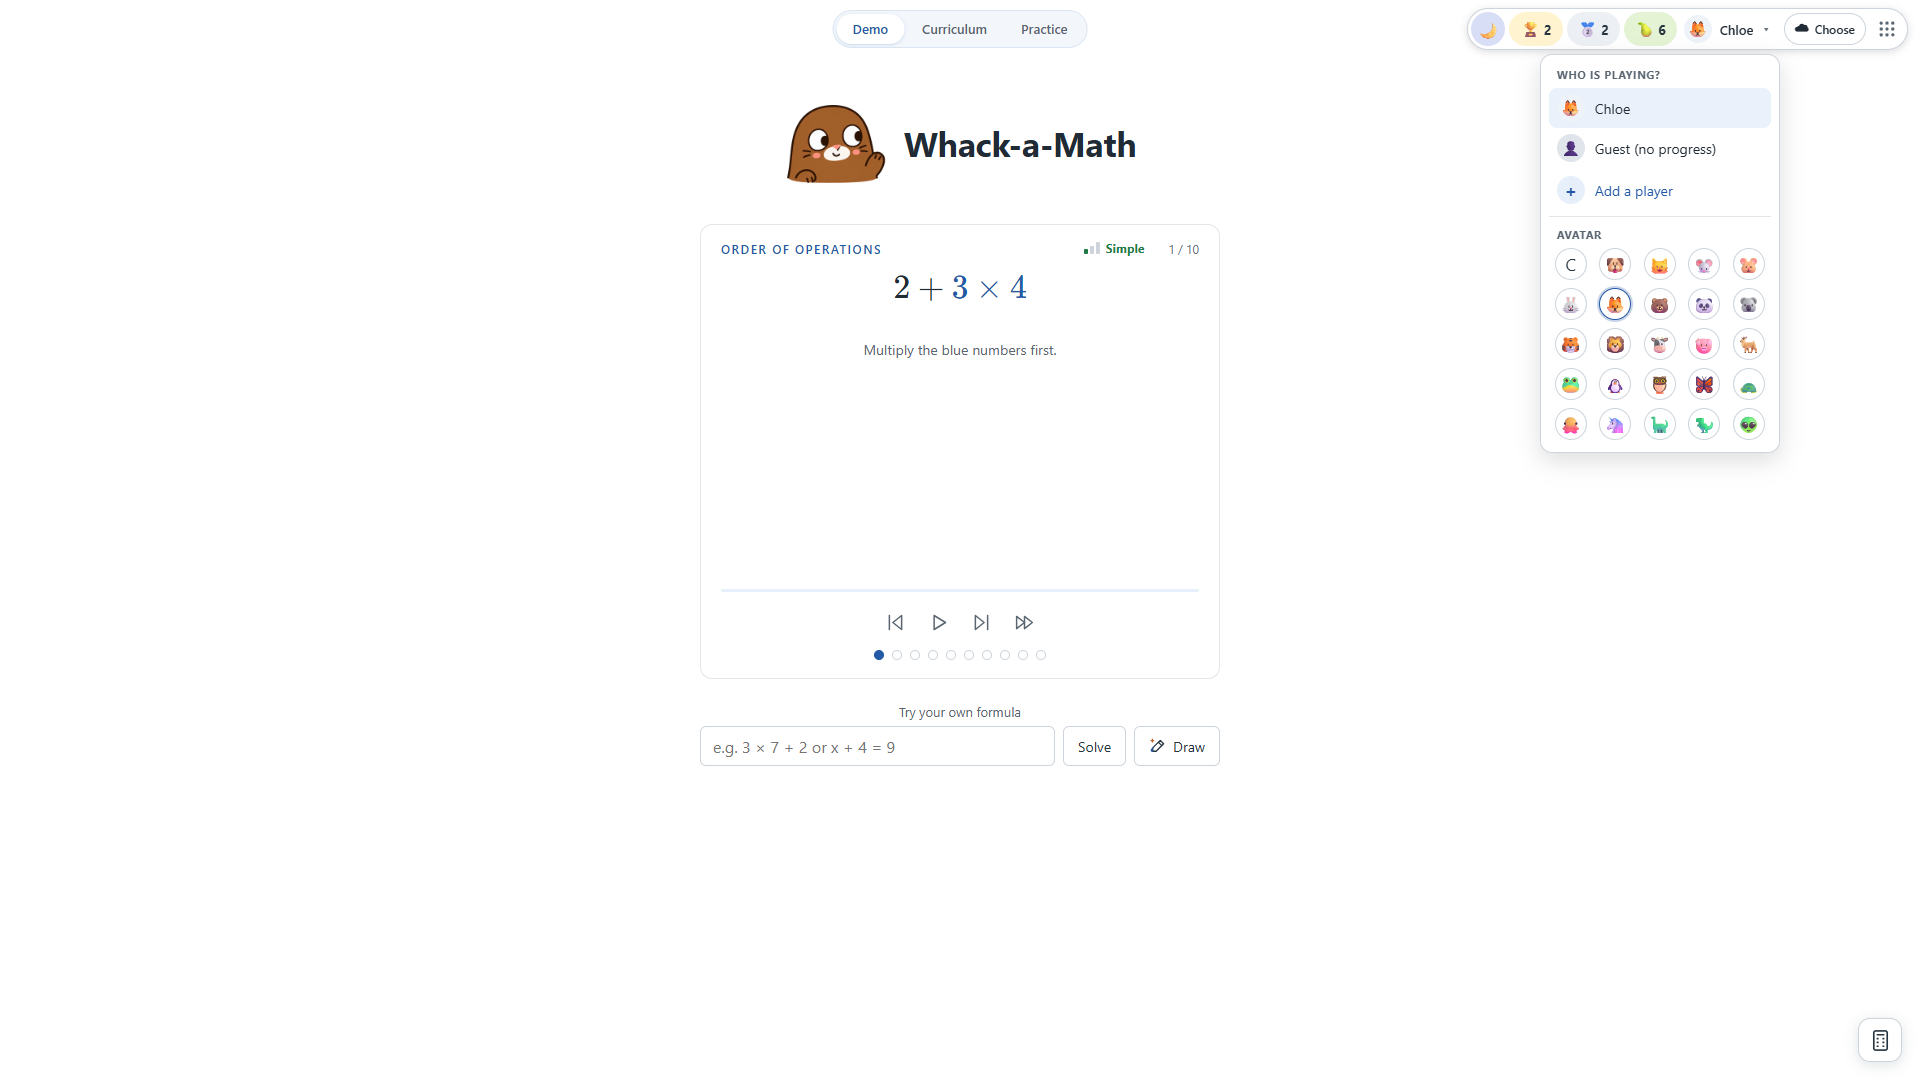
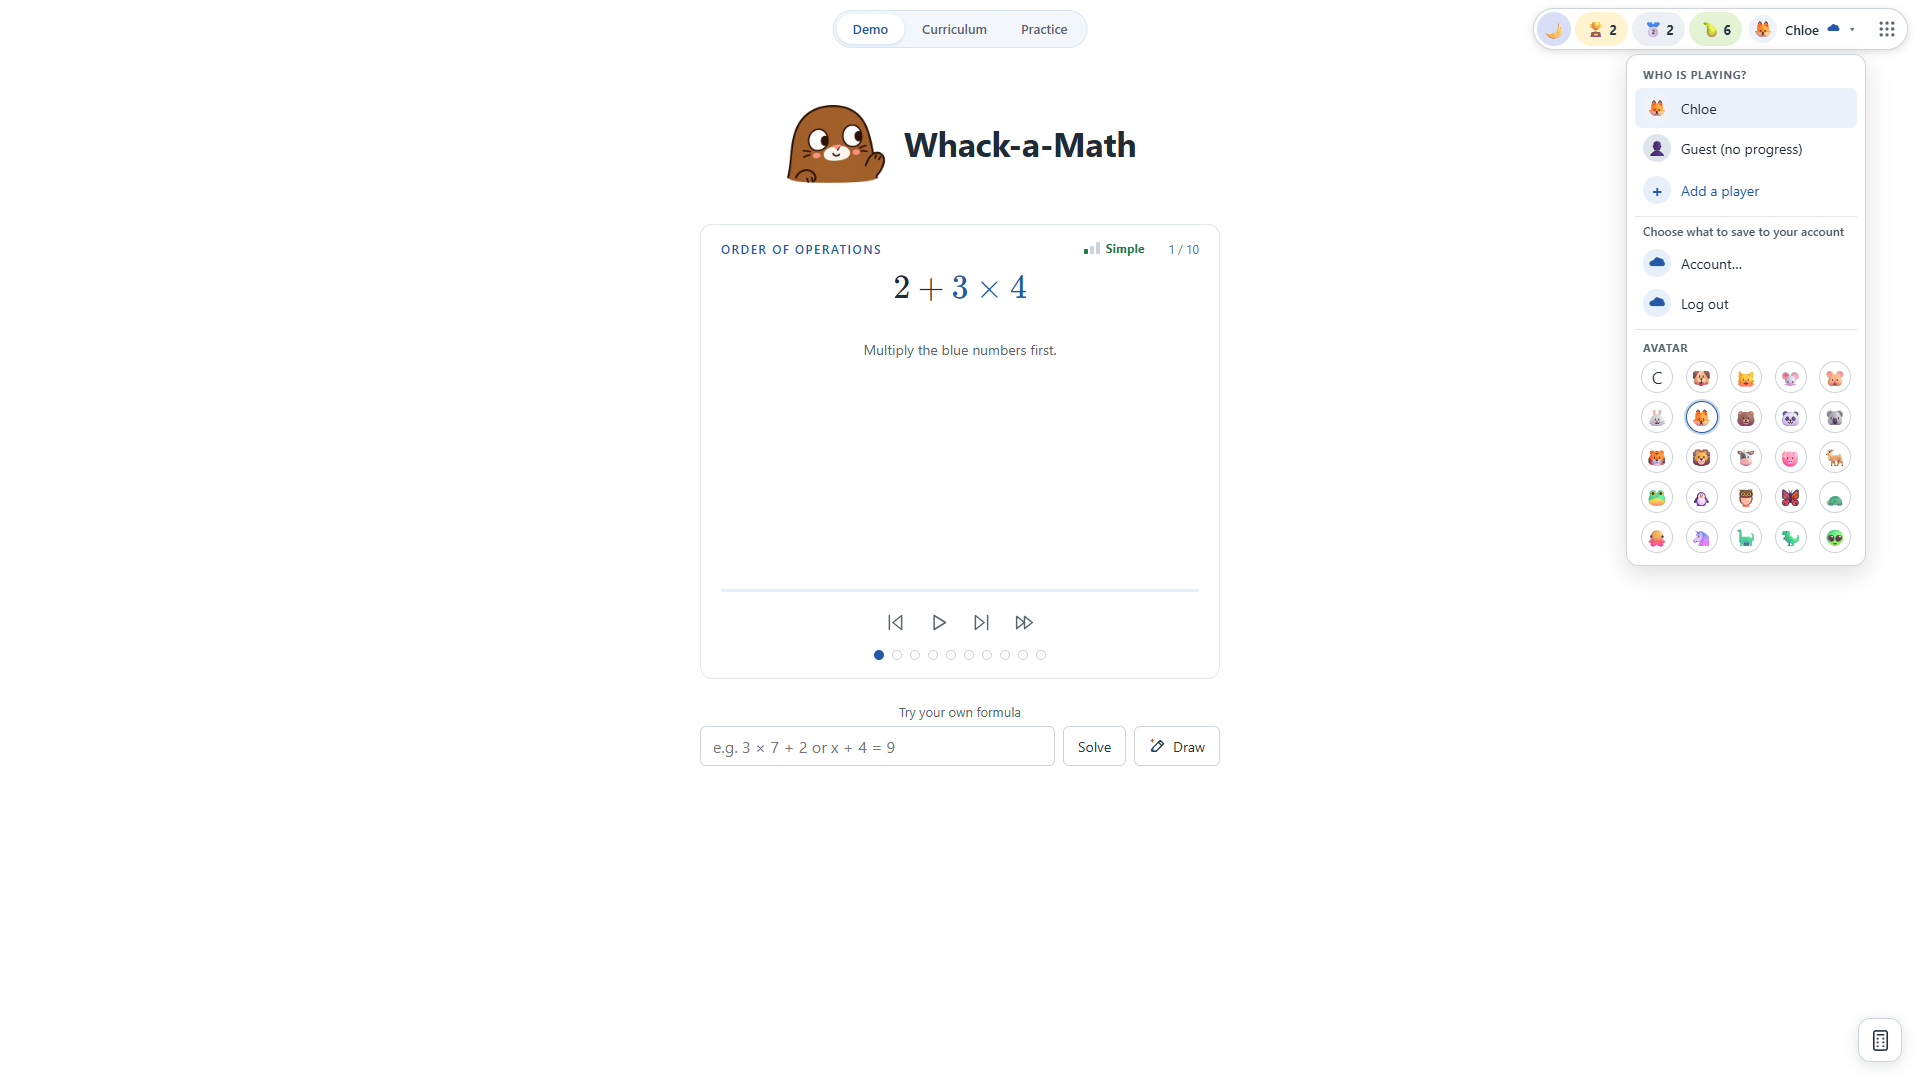
One component for player and account: status dot on the badge, account section in its menu; the login user becomes the player

Changed region(s): [[0.8125, 0.2139, 0.9688, 0.5194], [0.75, 0.0, 0.9688, 0.1833]]

diff --git a/src/ui/account.js b/src/ui/account.js
@@ -4,7 +4,7 @@ import {playerKey} from '../game/profile.js';
 
 // The optional account: a small status button in the top-right corner, and a dialog for logging in, choosing what to save,
 // managing saved players, and backing up this device. Playing never depends on any of it.
-const ICONS={off:'☁',checking:'☁',syncing:'⟳',saved:'☁',offline:'☁',ask:'☁',error:'☁','signed-out':'☁'};
+const ICONS={off:'',checking:'',syncing:'⟳',saved:'☁',offline:'☁',ask:'☁',error:'☁','signed-out':'☁'};
 const SHORT={checking:'…',syncing:'Saving…',saved:'Saved',offline:'Offline','signed-out':'Log in',ask:'Choose',error:'Retrying'};
 let dialog,body,learners=null,notice='',noticeKind='',busy=false,mode='main',lastFocus,typedId='',lastStatus='';
 
@@ -131,21 +131,34 @@ export function openAccount(){
  dialog.querySelector('input:not([hidden]),button.auth-primary')?.focus();
 }
 
-// The small button beside the player badge: a cloud with a short status word; the full sentence is its label.
-export function createAccountButton(){
- const wrap=el('span',undefined,'account-wrap');
- if(syncEnabled()){
-  const b=el('button',undefined,'account-button');b.type='button';b.setAttribute('aria-haspopup','dialog');
-  const icon=el('span','☁','account-icon'),text=el('span',undefined,'account-text');icon.setAttribute('aria-hidden','true');b.append(icon,text);
-  b.onclick=openAccount;
-  const live=el('span',undefined,'sr-only');live.setAttribute('role','status');live.setAttribute('aria-live','polite');
-  const update=snapshot=>{
-   b.dataset.status=snapshot.status;text.textContent=SHORT[snapshot.status]??'';icon.textContent=ICONS[snapshot.status]??'☁';
-   const full=MESSAGES[snapshot.status]||'';b.title=full;b.setAttribute('aria-label',`Account. ${full}`);live.textContent=snapshot.status==='checking'||snapshot.status==='syncing'?'':full;
-   b.hidden=snapshot.status==='off';
-  };
-  onSync(update);update(getSync());wrap.append(b,live);
-  startSync().then(()=>{const r=getSync().returned;if(r.error||r.resetToken)openAccount();});
- }
- return wrap;
+// The account lives inside the player badge: a small status dot on the badge and a section at the end of its menu.
+const apply=node=>{
+ const snap=getSync(),full=MESSAGES[snap.status]||'';
+ node.dataset.status=snap.status;
+ if(node.classList.contains('badge-status')){node.title=full;node.textContent=ICONS[snap.status]??'☁';node.hidden=snap.status==='off'||snap.status==='checking';}
+ else node.textContent=full;
+};
+let live;
+export function startAccount(){
+ if(!syncEnabled())return;
+ live=el('span',undefined,'sr-only');live.setAttribute('role','status');live.setAttribute('aria-live','polite');document.body.append(live);
+ onSync(snapshot=>{
+  document.querySelectorAll('.badge-status,.menu-status').forEach(apply);
+  live.textContent=snapshot.status==='checking'||snapshot.status==='syncing'?'':(MESSAGES[snapshot.status]||'');
+ });
+ startSync().then(()=>{const r=getSync().returned;if(r.error||r.resetToken)openAccount();});
+}
+export const accountEnabled=syncEnabled;
+/** The cloud-status dot shown on the badge (hidden until the account state is known). */
+export function statusDot(){const dot=el('span',undefined,'badge-status');dot.setAttribute('aria-hidden','true');apply(dot);return dot;}
+/** The account section at the end of the player menu: login, or status and the account panel. */
+export function accountMenuItems(close){
+ if(!syncEnabled())return [];
+ const snap=getSync(),items=[el('div',undefined,'menu-rule')];
+ const item=(label,onclick)=>{const b=el('button',undefined,'menu-item');b.type='button';b.setAttribute('role','menuitem');b.append(el('span','☁','avatar avatar-add'),el('span',label));b.onclick=()=>{close();onclick();};return b;};
+ if(snap.account){
+  const status=el('p',undefined,'menu-status');status.setAttribute('role','presentation');apply(status);
+  items.push(status,item('Account…',openAccount),item('Log out',()=>guarded(async()=>{await logout();learners=null;})));
+ }else items.push(item('Log in to save results',openAccount));
+ return items;
 }

diff --git a/src/ui/profile-corner.js b/src/ui/profile-corner.js
@@ -3,7 +3,7 @@ import {listRounds} from '../game/storage.js';
 import {activeProfile,playerKey,addProfile,chooseProfile,profilesIn,profileStats,avatarFor,chooseAvatar,AVATARS,WIN_ACCURACY} from '../game/profile.js';
 import {el} from './dom.js';
 import {createAppLauncher} from './app-launcher.js';
-import {createAccountButton} from './account.js';
+import {startAccount,statusDot,accountMenuItems} from './account.js';
 
 // The player badge and lifetime statistics in the top-right corner of every page.
 const HUES=[212,28,150,280,350,48,190,320];
@@ -18,7 +18,7 @@ export function avatarNode(profile,size=''){
 const percent=value=>value===null?'–':`${Math.round(value*100)}%`;
 const medals=[['trophy','🏆','Perfect games','perfect'],['medal','🥈','Games won','won'],['pear','🍐','Correct answers','correct']];
 
-let corner,rounds=[],profile=null,busy=false;const launcher=createAppLauncher();let account;
+let corner,rounds=[],profile=null,busy=false;const launcher=createAppLauncher();
 function emit(next){profile=next;chooseProfile(next);document.dispatchEvent(new CustomEvent('math-profile-change',{detail:next}));render();}
 
 function statsView(){
@@ -50,7 +50,7 @@ function menuView(close){
  add.onclick=()=>{form.hidden=!form.hidden;add.setAttribute('aria-expanded',String(!form.hidden));if(!form.hidden)field.focus();};
  form.onsubmit=event=>{event.preventDefault();let id;try{id=playerKey(field.value);}catch(problem){error.textContent=problem.message;field.focus();return;}
   const person={id,name:field.value.trim().replace(/s+/g,' ')};addProfile(person);close();emit(person);};
- menu.append(add,form);
+ menu.append(add,form,...accountMenuItems(close));
  if(profile){
   const picker=el('div',undefined,'avatar-picker');picker.setAttribute('role','group');picker.setAttribute('aria-label','Choose an avatar');
   picker.append(el('p','Avatar','menu-title'));
@@ -68,13 +68,13 @@ function render(){
  for(const old of corner.querySelectorAll('.stat-cluster,.profile-wrap'))old.remove();
  if(profile)corner.append(statsView());
  const wrap=el('div',undefined,'profile-wrap'),button=el('button',undefined,'profile-button');button.type='button';button.setAttribute('aria-haspopup','menu');button.setAttribute('aria-expanded','false');
- button.append(avatarNode(profile),el('span',profile?profile.name:'Guest','profile-name'),el('span','▾','profile-caret'));
+ button.append(avatarNode(profile),el('span',profile?profile.name:'Guest','profile-name'),statusDot(),el('span','▾','profile-caret'));
  button.setAttribute('aria-label',profile?`Player: ${profile.name}. Change player`:'Guest. Choose a player');
  const close=()=>{menu.remove();button.setAttribute('aria-expanded','false');document.removeEventListener('pointerdown',outside,true);document.removeEventListener('keydown',escape,true);};
  let menu;const outside=event=>{if(!wrap.contains(event.target))close();},escape=event=>{if(event.key==='Escape'){close();button.focus();}};
  const show=()=>{menu=menuView(close);wrap.append(menu);button.setAttribute('aria-expanded','true');document.addEventListener('pointerdown',outside,true);document.addEventListener('keydown',escape,true);menu.querySelector('[aria-checked=true],.menu-item')?.focus();};
  button.onclick=()=>button.getAttribute('aria-expanded')==='true'?close():show();
- wrap.append(button);corner.append(wrap,account,launcher);
+ wrap.append(button);corner.append(wrap,launcher);
  if(wasOpen)show();
 }
 
@@ -93,7 +93,7 @@ function adoptThemeToggle(){
 export function mountProfileCorner(){
  if(corner||typeof document==='undefined')return;
  corner=el('div',undefined,'profile-corner');corner.setAttribute('aria-label','Player and statistics');document.body.append(corner);
- account=createAccountButton();
+ startAccount();
  adoptThemeToggle();render();refresh();
  document.addEventListener('math-rounds-changed',refresh);
  window.addEventListener('storage',event=>{if(event.key==='math-active-profile'){profile=activeProfile(rounds);render();}});

diff --git a/src/ui/chrome.css b/src/ui/chrome.css
@@ -120,16 +120,14 @@ html[data-theme=dark] .difficulty-pick{color:#b5c1cc}html[data-theme=dark] .diff
 html[data-theme=dark] #game-setup .difficulty-pick select,html[data-theme=dark] #game-setup select{background:#222d37;color:#e1e7ed;border-color:#7b8794}
 #game-setup #game-difficulty-host{order:1}
 .curriculum-difficulty{margin-left:auto}
-/* Optional account: status button, dialog*/
-.account-wrap .sr-only{position:absolute;width:1px;height:1px;overflow:hidden;clip:rect(0 0 0 0);white-space:nowrap}
-.account-button{display:flex;align-items:center;gap:6px;min-height:32px;padding:2px 10px;border:1px solid #cdd4db;border-radius:999px;background:#fff;color:#202b35;font:inherit;font-size:12px;font-weight:600;cursor:pointer}
-.account-button:hover{border-color:#2459a6}.account-button:focus-visible{outline:3px solid #2459a6;outline-offset:2px}
-.account-icon{font-size:16px;line-height:1}.account-button[data-status=saved] .account-icon{color:#1a7f4b}.account-button[data-status=offline] .account-icon,.account-button[data-status=error] .account-icon{color:#a35b00}
-.account-button[data-status=syncing] .account-icon{display:inline-block;animation:account-spin 1.2s linear infinite}
-@keyframes account-spin{to{transform:rotate(360deg)}}@media(prefers-reduced-motion:reduce){.account-button[data-status=syncing] .account-icon{animation:none}}
-@media(max-width:900px){.account-text{display:none}.account-button{padding:2px 8px}}
-html[data-theme=dark] .account-button{background:#222d37;color:#e1e7ed;border-color:#52606d}
+/* Optional account: badge status dot, menu section, dialog */
+.badge-status{font-size:14px;line-height:1;color:#65717b}.badge-status[hidden]{display:none}.badge-status[data-status=saved]{color:#1a7f4b}.badge-status[data-status=offline],.badge-status[data-status=error]{color:#a35b00}.badge-status[data-status=ask]{color:#2459a6}
+.badge-status[data-status=syncing]{display:inline-block;animation:account-spin 1.2s linear infinite}@keyframes account-spin{to{transform:rotate(360deg)}}@media(prefers-reduced-motion:reduce){.badge-status[data-status=syncing]{animation:none}}
+.menu-rule{height:1px;margin:6px 0;background:#e1e6eb}.menu-status{margin:2px 8px 4px;font-size:12px;font-weight:600;color:#4a5864}.menu-status[data-status=saved]{color:#1a7f4b}.menu-status[data-status=offline],.menu-status[data-status=error]{color:#a35b00}
+.sr-only{position:absolute;width:1px;height:1px;overflow:hidden;clip:rect(0 0 0 0);white-space:nowrap}
+html[data-theme=dark] .menu-rule{background:#52606d}html[data-theme=dark] .menu-status{color:#b5c1cc}
 .auth-dialog{width:min(480px,calc(100vw - 24px));max-height:calc(100dvh - 24px);padding:0;border:1px solid #cdd4db;border-radius:14px;background:#fff;color:#202b35;box-shadow:0 12px 40px #0004}
+.auth-dialog:focus,.auth-dialog:focus-visible{outline:none}
 .auth-dialog::backdrop{background:#0006}
 .auth-head{display:flex;align-items:center;justify-content:space-between;padding:14px 18px 6px}.auth-head h2{margin:0;font-size:20px}
 .auth-close{border:0;background:transparent;font-size:26px;line-height:1;cursor:pointer;color:inherit;padding:2px 8px;border-radius:8px}

diff --git a/src/sync/index.js b/src/sync/index.js
@@ -5,6 +5,7 @@ import {HttpError,isOffline} from './http.js';
 import {createEngine} from './engine.js';
 import {createState,rememberAccount,lastAccount} from './state.js';
 import {browserLocal} from './local.js';
+import {chooseProfile,playerKey} from '../game/profile.js';
 
 // The optional account: signing in saves this device's players and results to the person's account and loads them on any device.
 // Nothing here is required to play. A failed or slow call only changes the status text; the app keeps working from this device.
@@ -48,6 +49,7 @@ async function runSync(){
  try{
   const before=(await browserLocal.profiles()).length;
   const result=await engine.run();
+  await adoptAccountPlayer();
   const after=(await browserLocal.profiles()).length;
   if(result.status==='ask')set({status:'ask',pending:result.pending});
   else set({status:'saved',pending:null});
@@ -68,6 +70,21 @@ async function runSync(){
   running=false;
   if(again){again=false;requestSync(500);}
  }
+}
+
+// The first time an account is used on this device the login user becomes the active player: a new account gets a player with the
+// account's name; an account that already has players makes one of them active. Later sign-ins leave the choice alone.
+export const ownName=account=>String(account.name||account.email.split('@')[0]||'Me').normalize('NFKC').replace(/[\u0000-\u001f\u007f]/g,'').trim().replace(/\s+/g,' ').slice(0,40)||'Me';
+async function adoptAccountPlayer(){
+ const account=snapshot.account;if(!account)return;
+ const store=createState(account.id),state=store.load();if(state.adopted)return;
+ const locals=await browserLocal.profiles(),linked=Object.keys(state.links);
+ let target=null;
+ if(!linked.length){
+  const name=ownName(account);try{const id=playerKey(name);if(!locals.some(p=>p.id===id))await browserLocal.upsertProfile({id,name,avatar:null,updatedAt:Date.now()});target={id,name};}catch{}
+ }else{const first=locals.find(p=>linked.includes(p.id));if(first)target={id:first.id,name:first.name};}
+ state.adopted=1;store.save(state);
+ if(target)chooseProfile(target);
 }
 
 export async function startSync(){

diff --git a/src/sync/sync.test.js b/src/sync/sync.test.js
@@ -95,3 +95,12 @@ test('account features appear only on the shared domain',()=>{
  assert.equal(syncAvailable('math.hedgies.cloud'),true);
  for(const host of ['localhost','127.0.0.1','chris-kc-cheng.github.io','evilhedgies.cloud','hedgies.cloud.evil.test'])assert.equal(syncAvailable(host),false,host);
 });
+
+test('the login user becomes the player: name from the account, trimmed and bounded',async()=>{
+ globalThis.localStorage??={getItem:()=>null,setItem(){},removeItem(){}};
+ const {ownName}=await import('./index.js');
+ assert.equal(ownName({name:'  Pat   Parent ',email:'pat@example.test'}),'Pat Parent');
+ assert.equal(ownName({name:'',email:'chloe-mum@example.test'}),'chloe-mum');
+ assert.equal(ownName({name:'x'.repeat(80),email:'a@b.c'}).length,40);
+ assert.equal(ownName({name:'',email:''}),'Me');
+});

diff --git a/README.md b/README.md
@@ -30,7 +30,7 @@ Animated worked examples, including extra room for stacked fractions:
 
 ## Optional account (save results online)
 
-Playing needs no account and works offline. On `math.hedgies.cloud` a small cloud button next to the player badge opens a login panel (email or username and password, or Google/Microsoft through the shared login at auth.hedgies.cloud). Signed in, each account can own several learner profiles (for example siblings on one iPad); their profiles and every finished practice round are saved to the account and appear on any device after login. The device keeps writing locally first and syncs when online; the status reads *Saved to your account*, *Will save when you are online* or *Log in to save results to your account*. On first login you choose whether this device's existing players and results are attached to the account. Only ids, counts, timestamps and right/wrong per question are stored (no typed answers, no device data); a learner can be deleted with all results and the account's data exported as JSON from the same panel.
+Playing needs no account and works offline. On `math.hedgies.cloud` the player badge in the corner doubles as the account: its menu ends with *Log in to save results*, which opens a login panel (email or username and password, or Google/Microsoft through the shared login at auth.hedgies.cloud). Once logged in, the login user is the player: a new account gets a player with the account's name, made active at once (more players, for example siblings on one iPad, can be added from the same menu, up to 20 per account); their profiles and every finished practice round are saved to the account and appear on any device after login. A small status mark on the badge and a line in its menu show the state while the device keeps writing locally first and syncing when online; it reads *Saved to your account*, *Will save when you are online* or *Log in to save results to your account*. On first login you choose whether this device's existing players and results are attached to the account. Only ids, counts, timestamps and right/wrong per question are stored (no typed answers, no device data); a learner can be deleted with all results and the account's data exported as JSON from the same panel.
 
 <img src="docs/images/account-dialog.png" alt="Account dialog after logging in, asking whether to save this device's players and results to the account" width="700">
 

diff --git a/CLAUDE.md b/CLAUDE.md
@@ -139,3 +139,4 @@ Moved Math to `math.hedgies.cloud` on the shared platform and added an optional 
 
 Follow-up: GitHub Pages workflows and the moved-notice code removed on the owner's decision. Any active shared login may save its own results (no approval step). Auth service checked read-only: `return_to` and credentialed CORS accept any https `*.hedgies.cloud`, so math.hedgies.cloud needs no auth change.
 Follow-up: "Back up or move data" (device backup file) removed on the owner's decision; `avatar-picker.png` and `account-dialog.png` need a retake. Practice (`game.html`) always renders light: `data-theme-lock="light"` on its `<html>`, honoured by `public/theme.js`, toggle hidden.
+Follow-up: the login button and player badge are one component (status dot on the badge; Log in / Account / Log out at the end of its menu). The first time an account is used on a device its user becomes the active player (new account: a player named after the account; existing account: one of its players); adoption flag `adopted` in the per-account sync state. Screenshots retaken.

diff --git a/src/README.md b/src/README.md
@@ -14,7 +14,7 @@ src/
     nav.js, profile-corner.js    Page switcher; player badge, statistics and the add-player menu
     difficulty.js                Difficulty badge and selector (saved choice: Auto, Simple, Medium, Hard)
     app-launcher.js              9-dot app launcher, last item in the top-right corner; live list from apps.hedgies.cloud/app.json (this app is id `math`)
-    account.js                   Optional account: status button, login/attach/delete/export dialog
+    account.js                   Optional account inside the player badge: status dot, menu section, login/attach/delete/export dialog
     grade-picker.js, chrome.css  Grade display with its collapsible selector
     math-text.js, debug.js       Plain a/b → LaTeX fractions; debug log
   views/                         Calculation-board renderers (equation, long division, long multiplication)
